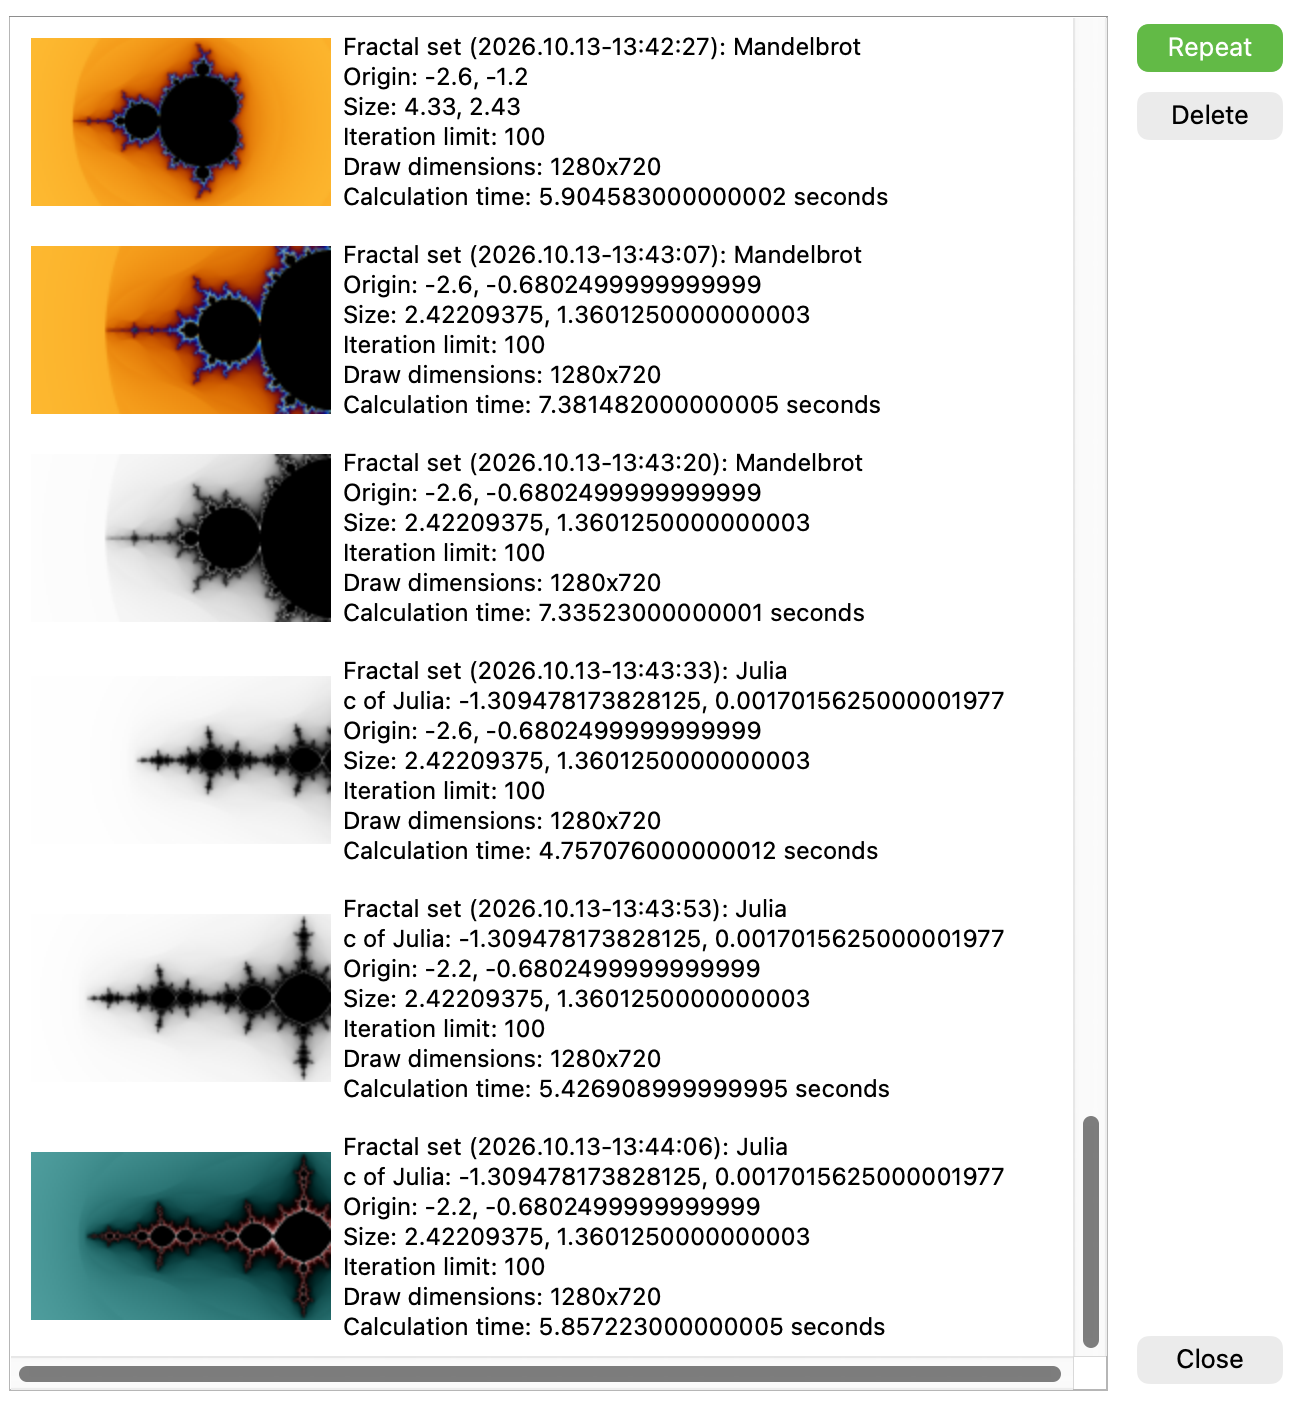
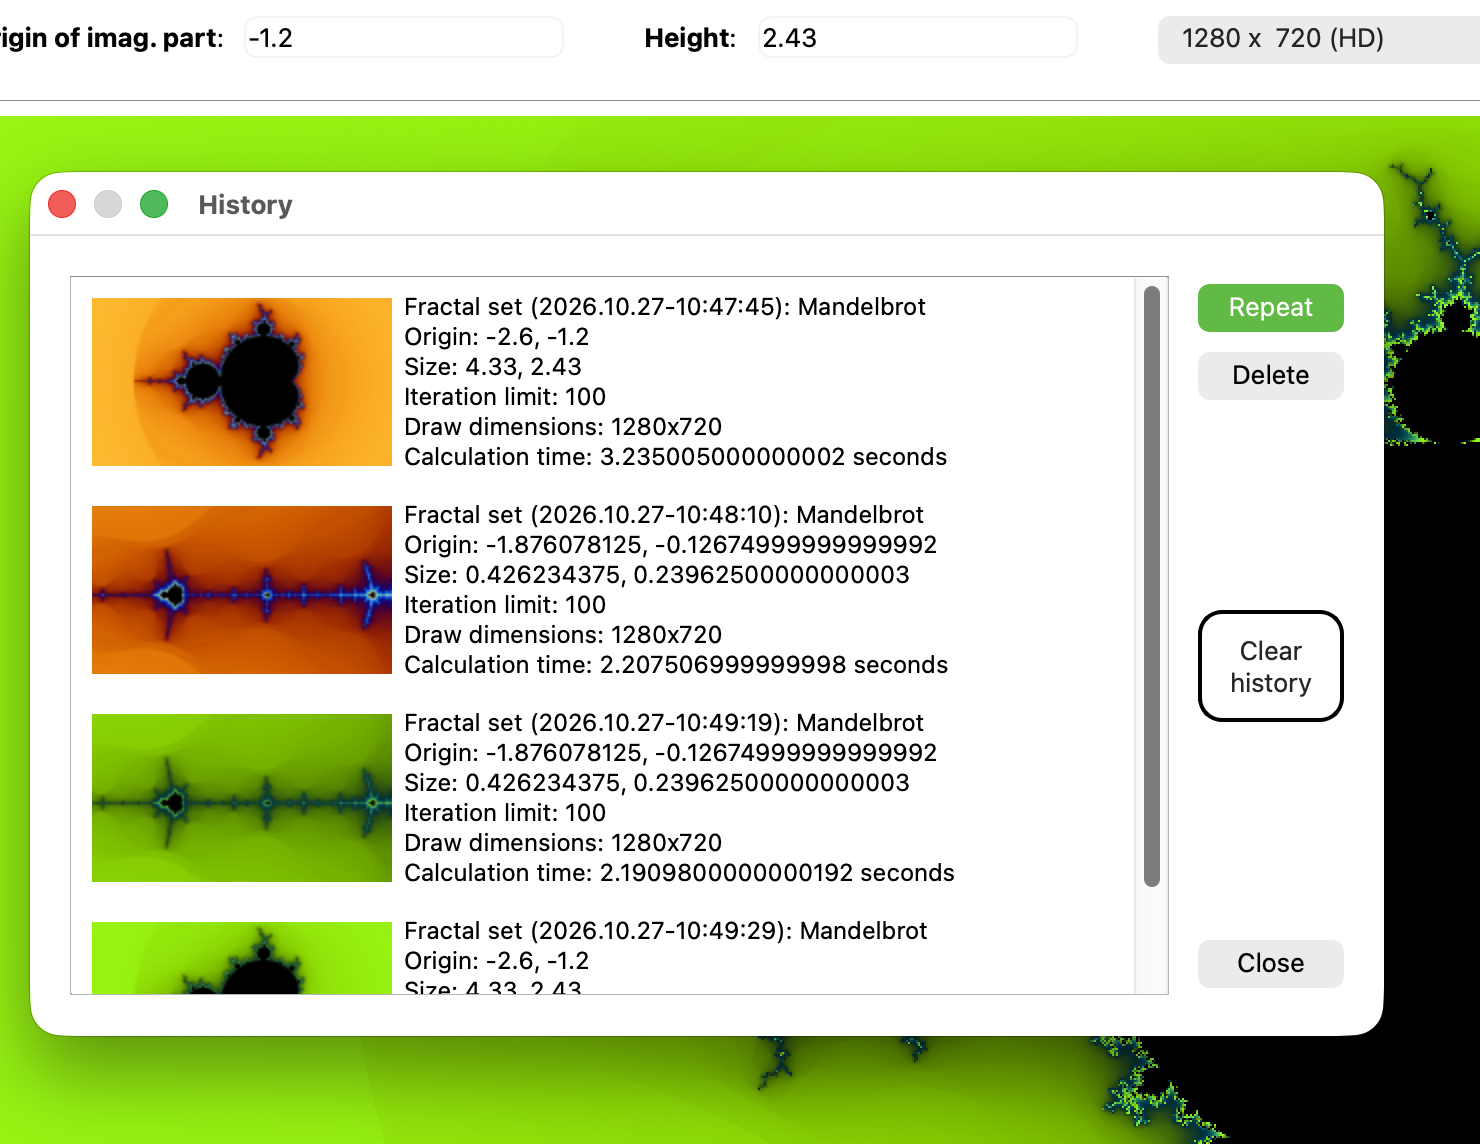
Update README and image permissions; clarify history item deletion and color palette associations, and specify Python version requirement

diff --git a/README.html b/README.html
@@ -15,7 +15,6 @@
 <li>change the color palette (providing pre-defined color palettes)</li>
 <li>...</li>
 </ul>
-<p>The app is written in Python3 and PySide6.</p>
 <p>This program is free software: you can redistribute it and/or modify
 it under the terms of the
 <a href="http://www.apache.org/licenses/LICENSE-2.0">Apache 2.0 license</a> as
@@ -58,8 +57,12 @@ detailled results).</li>
 <p><img src="docs/app_screenshot_history.png" alt="History window" style="width:100%; height:auto;"></p>
 <p>The history window shows all past calculations since starting the app the first
 time. The entries are sorted by time. You can delete single entries (at the
-moment one by one only) or repeat a specific calculation. The repeated one
-generates a new history entry!</p>
+moment one by one only) or delete the whole history. On the other side you may
+repeat a specific calculation. The repeated one generates a new history entry!</p>
+<p><strong>Attention</strong>:</p>
+<p>Deleting a history item deletes a possibly associated user defined color paette
+defintion too! As long as this user defined color palette is associated with
+another history item the color palete is safe.</p>
 <h2>New color palette window</h2>
 <!-- ![New color palette window](docs/app_screenshot_new_cp.png) -->
 <p><img src="docs/app_screenshot_new_cp.png" alt="New color palette window" style="width:100%; height:auto;"></p>
@@ -85,7 +88,8 @@ the specific history item the user defined color palette will be lost!</p>
 <p><img src="docs/app_screenshot_zoom.png" alt="Zoom video parameters window" style="width:100%; height:auto;"></p>
 <p>To build a zoom video you have to provide the parameters of two Mandelbrot
 fractal sets: starting point and ending point. You may provide the data manually
-or grab it from the current Mandelbrot fractal set (preferred method).
+or grab it from the current Mandelbrot fractal set (preferred method). Depending
+which of the set is smaller or bigger the video will zoom-in or zoom-out.
 Additionally you may select the resolution (width and height), frames per
 second, and duration (seconds) of the video.</p>
 <p>Of course you are able to select an existing color palette from a list.</p>
@@ -98,8 +102,6 @@ calculated/rendered as thumbnail. You may abort the whole video creation!</p>
 <ul>
 <li>Please take care, that the fractal set ratio (width x height) is the same as
   the ratio of the resolution (width x height)!</li>
-<li>During the calculation temporary a lot of video frames (FPS x Seconds) will be
-  generated. Enough disk space is a prerequisite.</li>
 </ul>
 <h2>Mouse and keyboard actions</h2>
 <h3>Julia set</h3>
@@ -124,6 +126,7 @@ current ratio, see item 3) which defines the area you want to zoom in. As soon
 as the calculation starts (immediately after release of the LMB), the new values
 (see item 1 and 2 above) will be adapted accordingly.</p>
 <h2>Development recommendations</h2>
+<p>The app is written in Python3 (<strong>version 3.14</strong> and newer) and PySide6.</p>
 <h3>Resources</h3>
 <p>To iclude all necessary resources you need the Qt resource system (<code>.qrc</code>)
 provided by PySide6 from Qt: "pyside6-rcc" (included already in the "pyside6"

diff --git a/README.md b/README.md
@@ -16,8 +16,6 @@ This app calculates fractal sets. It provides a few features like
 - change the color palette (providing pre-defined color palettes)
 - ...
 
-The app is written in Python3 and PySide6.
-
 This program is free software: you can redistribute it and/or modify
 it under the terms of the
 [Apache 2.0 license](http://www.apache.org/licenses/LICENSE-2.0) as
@@ -63,8 +61,14 @@ In this section I describe the main window and its controls:
 
 The history window shows all past calculations since starting the app the first
 time. The entries are sorted by time. You can delete single entries (at the
-moment one by one only) or repeat a specific calculation. The repeated one
-generates a new history entry!
+moment one by one only) or delete the whole history. On the other side you may
+repeat a specific calculation. The repeated one generates a new history entry!
+
+**Attention**:
+
+Deleting a history item deletes a possibly associated user defined color paette
+defintion too! As long as this user defined color palette is associated with
+another history item the color palete is safe.
 
 ## New color palette window
 
@@ -98,7 +102,8 @@ the specific history item the user defined color palette will be lost!
 
 To build a zoom video you have to provide the parameters of two Mandelbrot
 fractal sets: starting point and ending point. You may provide the data manually
-or grab it from the current Mandelbrot fractal set (preferred method).
+or grab it from the current Mandelbrot fractal set (preferred method). Depending
+which of the set is smaller or bigger the video will zoom-in or zoom-out.
 Additionally you may select the resolution (width and height), frames per
 second, and duration (seconds) of the video.
 
@@ -115,8 +120,6 @@ calculated/rendered as thumbnail. You may abort the whole video creation!
 
 - Please take care, that the fractal set ratio (width x height) is the same as
   the ratio of the resolution (width x height)!
-- During the calculation temporary a lot of video frames (FPS x Seconds) will be
-  generated. Enough disk space is a prerequisite.
 
 
 ## Mouse and keyboard actions
@@ -149,6 +152,8 @@ as the calculation starts (immediately after release of the LMB), the new values
 (see item 1 and 2 above) will be adapted accordingly.
 
 ## Development recommendations
+
+The app is written in Python3 (**version 3.14** and newer) and PySide6.
 
 ### Resources
 
